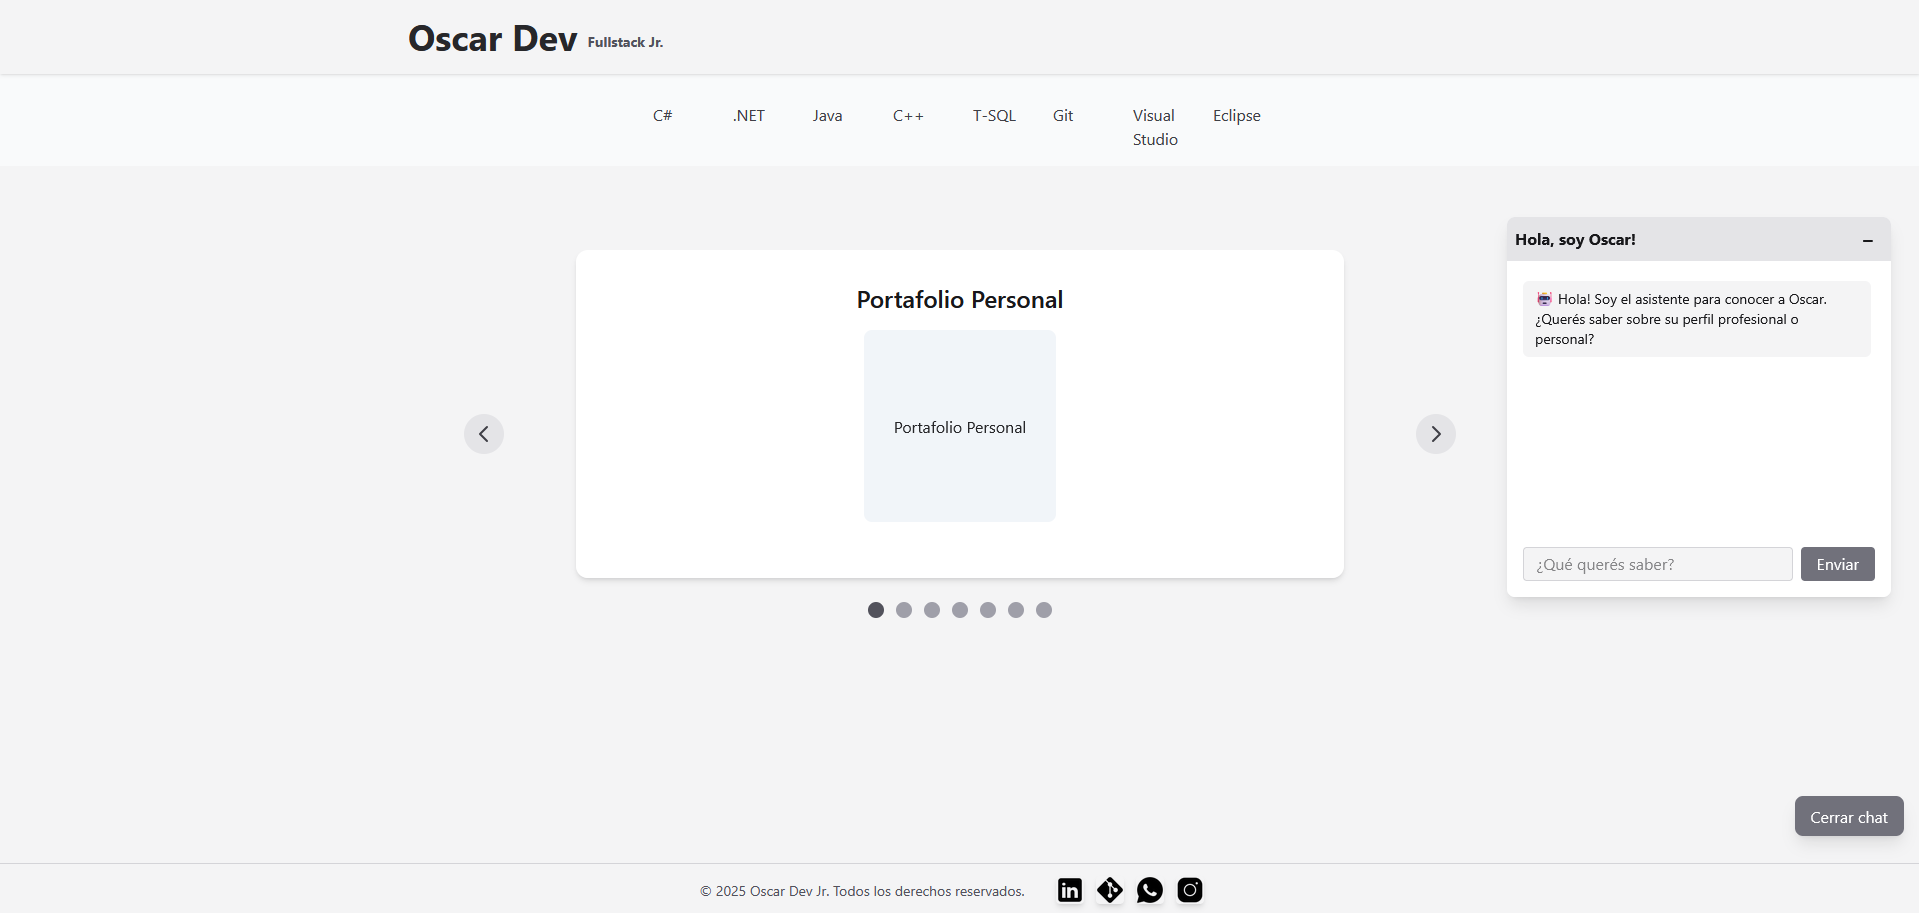
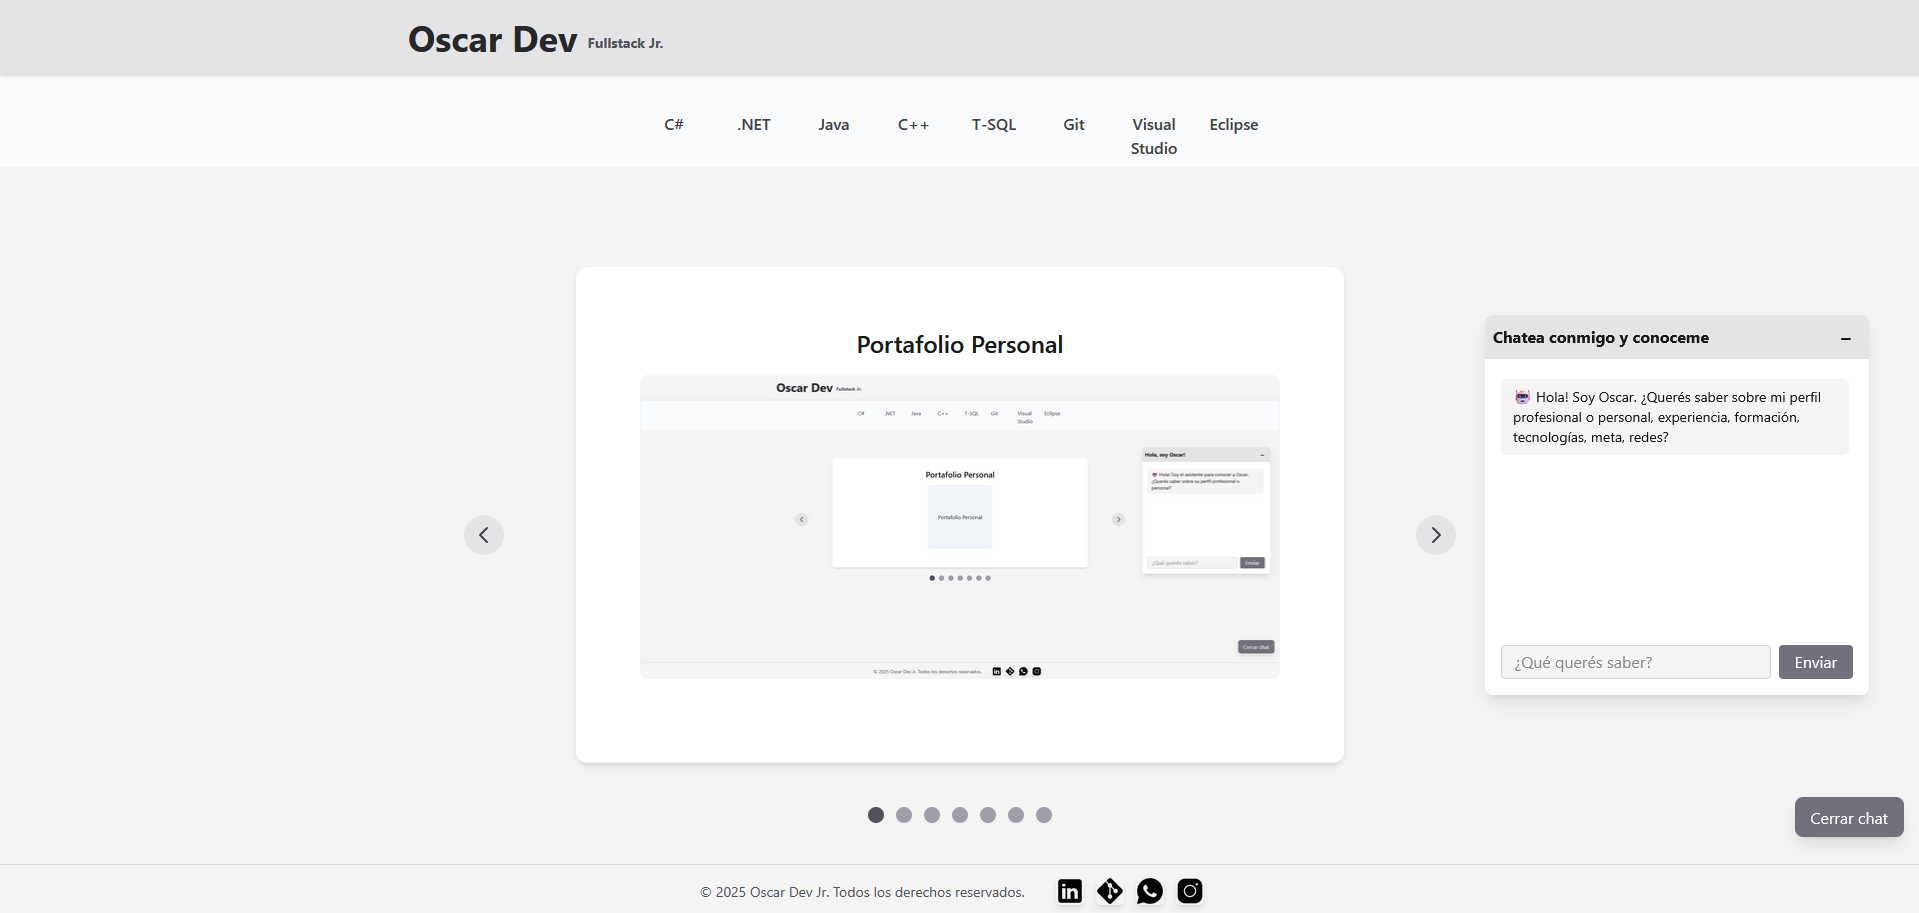
V1.1

diff --git a/Portafolio/Frontend/src/components/Projects.tsx b/Portafolio/Frontend/src/components/Projects.tsx
@@ -16,7 +16,7 @@ const projects = [
   {
     title: "E-commerce",
     description:
-      "Ecommerce (en construcción) con arquitectura de microservicios en .NET Core.",
+      "Ecommerce (en construcción) con arquitectura de microservicios en .NET Core, API´s.",
     img: "/img/projects/ecommerce.png",
   },
   {
@@ -36,12 +36,6 @@ const projects = [
     description:
       "Sitio web corporativo para muebleria artesanal con catálogo de productos y contactos.",
     img: "/img/projects/muebleria.png",
-  },
-    {
-    title: "Tetris",
-    description:
-      "Clasico juego de Tetris desarrollado con React y TypeScript. Incluye niveles y sistema puntajes.",
-    img: "/img/projects/tetris.png",
   },
 ];
 

diff --git a/Portafolio/Frontend/src/components/SobreMi.tsx b/Portafolio/Frontend/src/components/SobreMi.tsx
@@ -101,7 +101,7 @@ export default function ChatSobreMi() {
     className="p-2 bg-zinc-200 rounded-t-lg cursor-move font-bold text-center select-none flex justify-between items-center"
     onMouseDown={handleMouseDown}
   >
-    <span>Chatea conmigo</span>
+    <span>Chatea conmigo y conoceme</span>
     <button
       className="text-xl font-bold px-2 hover:bg-zinc-300 rounded"
       onClick={(e) => {
